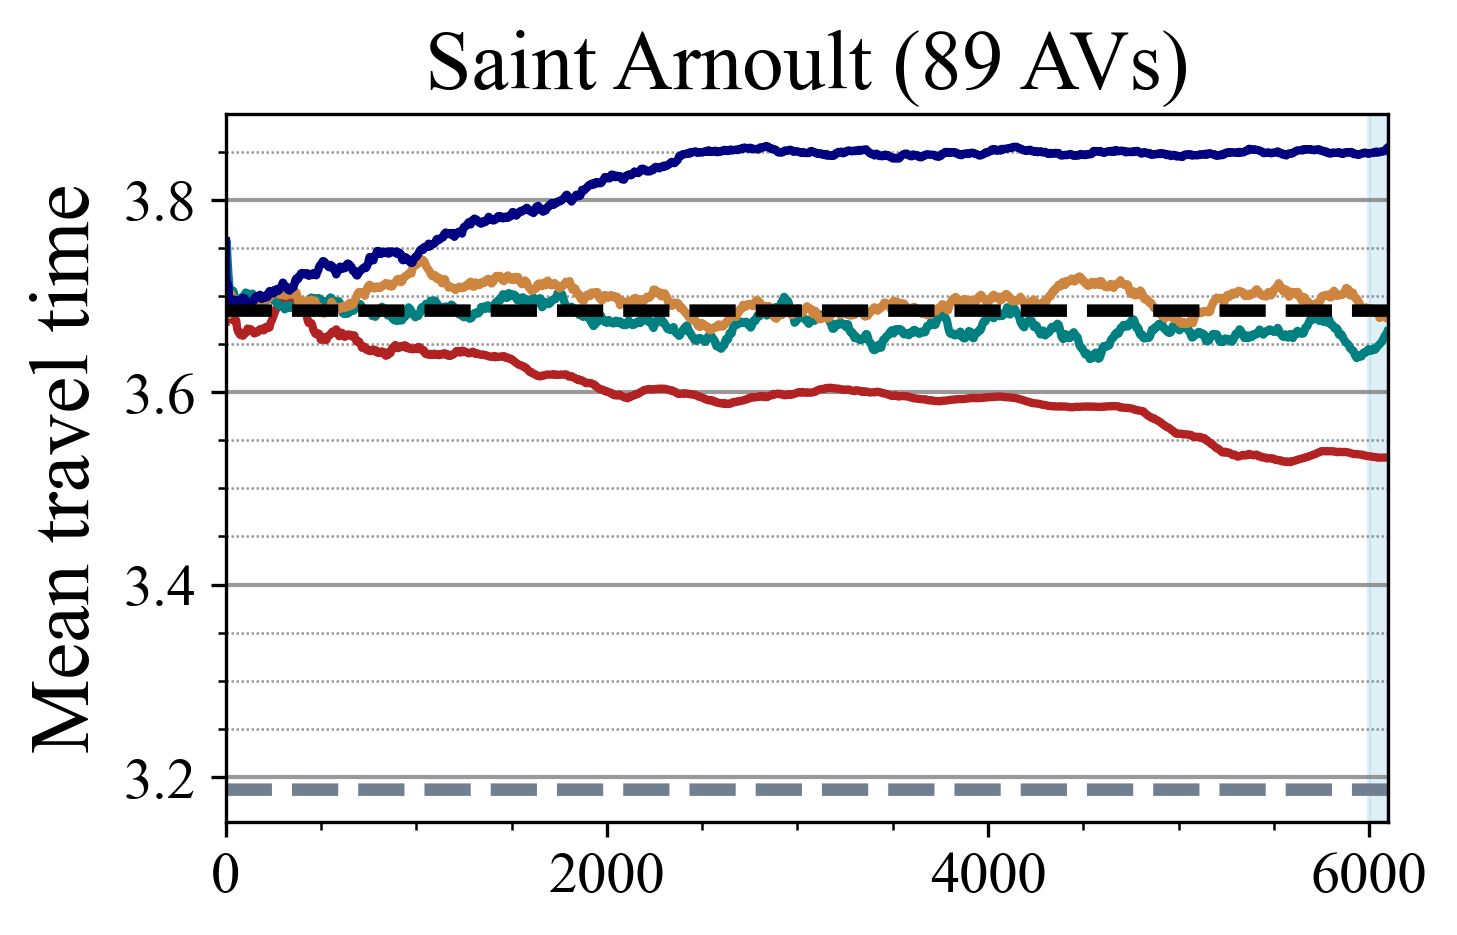
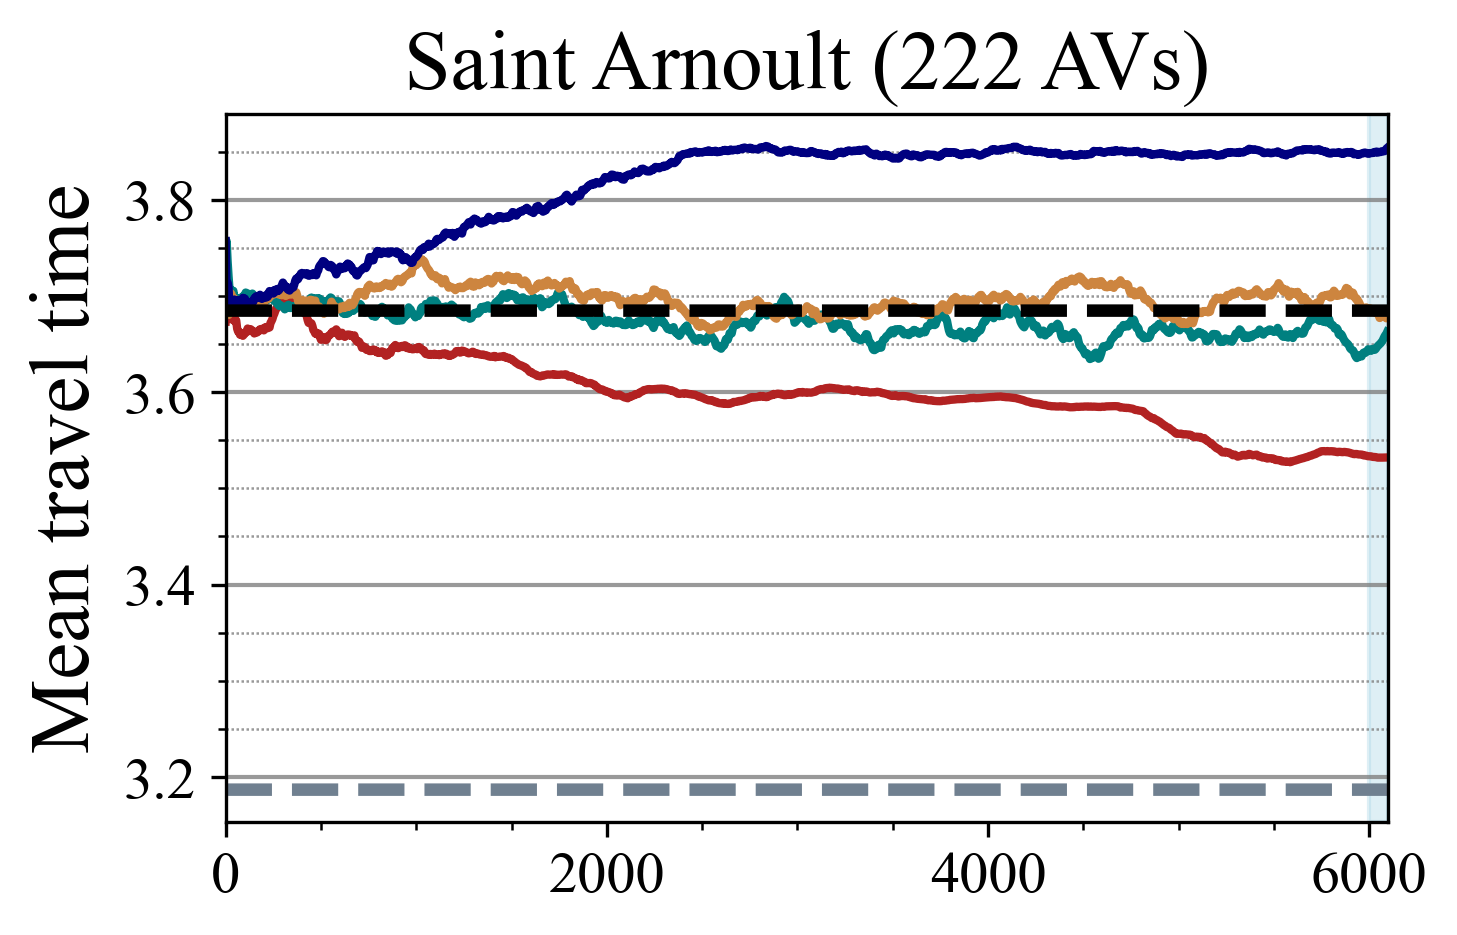
adjust-plot-title

Changed region(s): [[0.278, 0.031, 0.8339, 0.1241]]

diff --git a/plotting_saint_arnold_100avs.py b/plotting_saint_arnold_100avs.py
@@ -112,7 +112,7 @@ suffix_labels = {
 
 # Define city prefixes and their readable names
 city_prefixes = OrderedDict([
-    ('sai', 'Saint Arnoult (89 AVs)'),
+    ('sai', 'Saint Arnoult (222 AVs)'),
 ])
 
 
